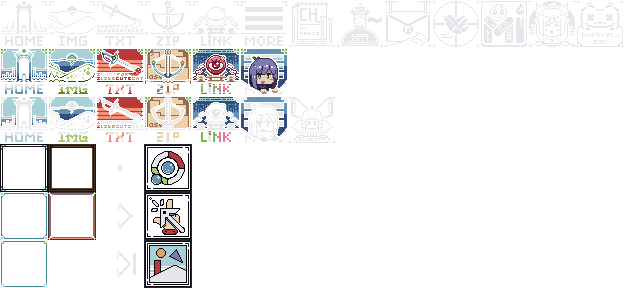
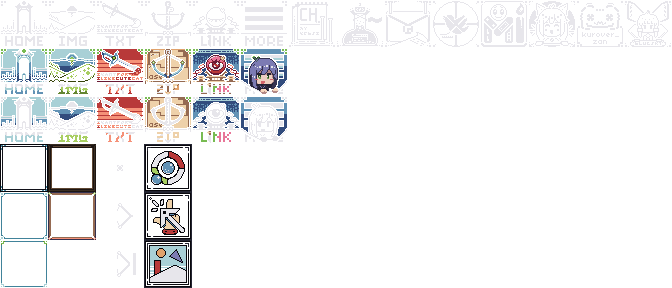
Update 48x Sprite
- Adjust Bluesky icon position, expanding the sprite

Changed region(s): [[0.0, 0.0, 1.0, 1.0], [0.0, 0.5312, 0.0304, 0.6562]]

diff --git a/styles.scss b/styles.scss
@@ -1195,11 +1195,8 @@ input[id^=profile-headshot-3]:checked ~ [data-target="3"] {display: block;}
 .contact--discord {
   --icon-atlas-x: 13;
 }
-// Probably should make it in same y level
 .contact--bluesky {
-  --icon-atlas-x: 7;
-  --icon-atlas-y: 3;
-
+  --icon-atlas-x: 14;
 }
 .contact-lists {
   --clr-link: var(--clr-text);
